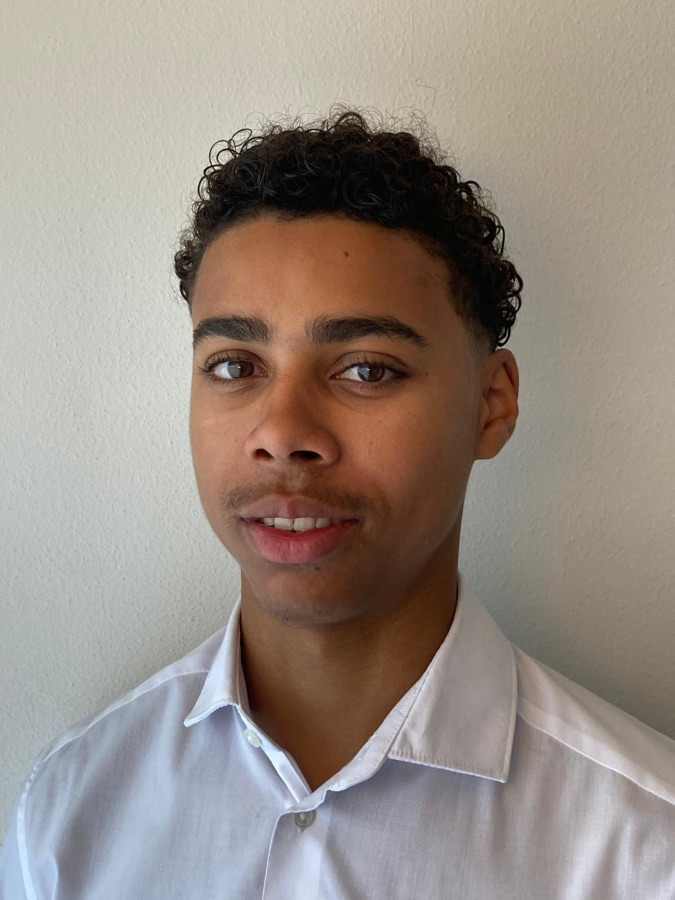
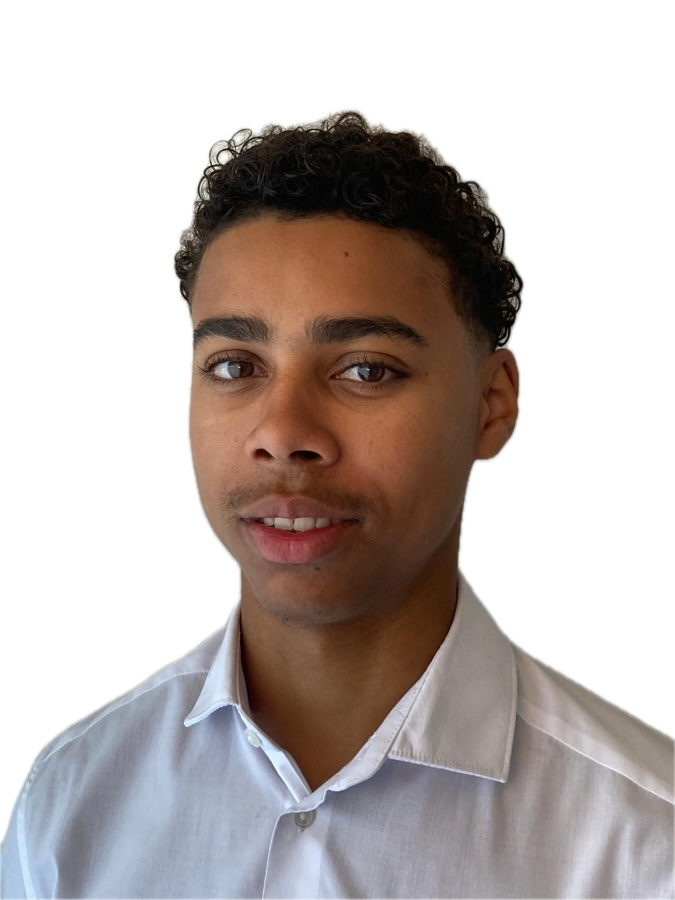
content: Weisser Hintergrund bei Til und Seraphin, Angaben im Team korrigiert

diff --git a/src/content/familien.ts b/src/content/familien.ts
@@ -114,7 +114,7 @@ export const about = {
     },
     {
       name: "Alilia Katumba",
-      role: "Studentin, Universität St.Gallen (HSG)",
+      role: "Studentin, Universität Genf (UNIGE)",
       image: "/images/team/alilia-katumba.jpg",
     },
     {
@@ -134,7 +134,7 @@ export const about = {
     },
     {
       name: "Seraphin",
-      role: "Physiotherapeut, ZHAW",
+      role: "Student, ZHAW",
       image: "/images/team/seraphin.jpg",
     },
   ] satisfies Person[],
